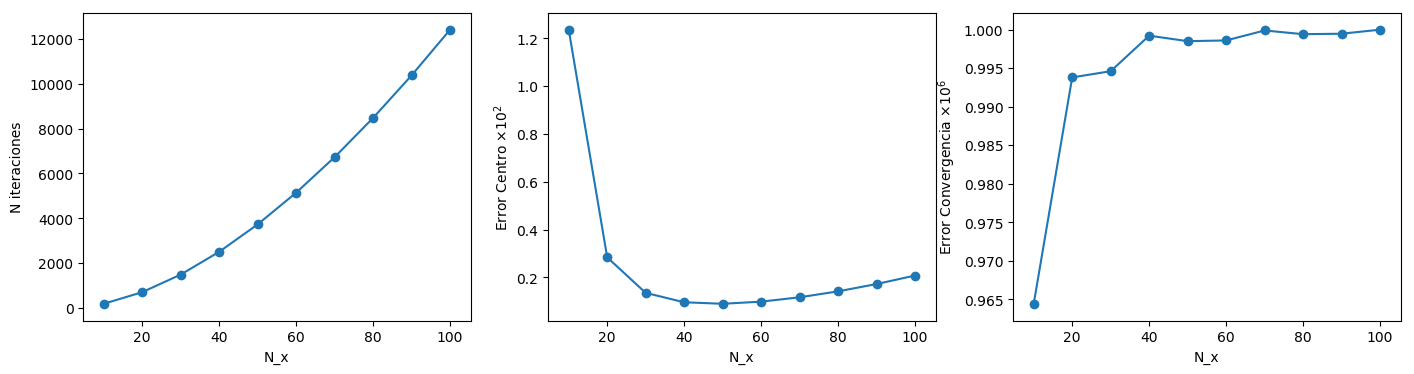
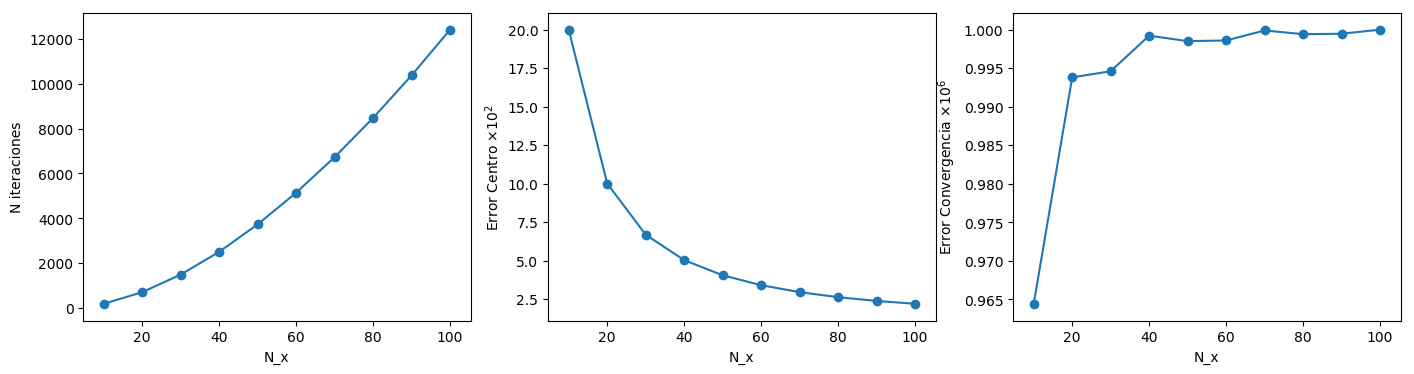
solucion

diff --git a/ejercicios/31/evolve.cpp b/ejercicios/31/evolve.cpp
@@ -23,7 +23,7 @@ int main(int argc, char **argv){
 
   n_x=atoi(argv[1]);
 
-  delta_x = 2.0/(n_x-1);
+  delta_x = 2.0/n_x;
   delta_t = 0.5 * delta_x * delta_x;
   
   psi  = new double [n_x];
